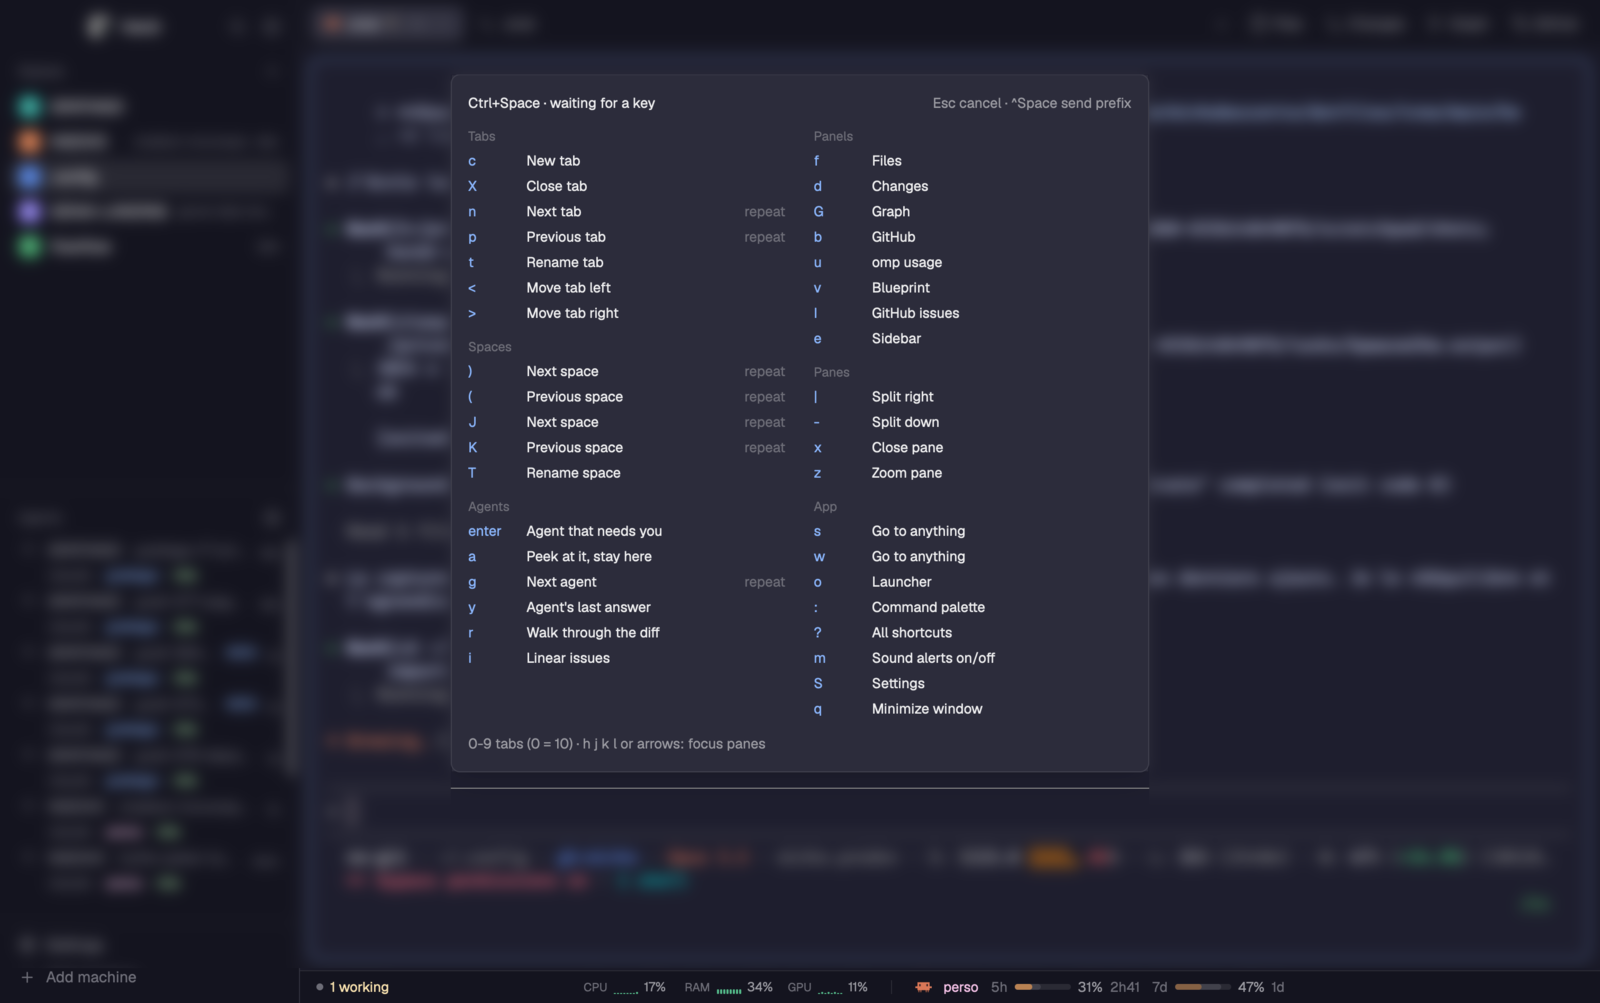
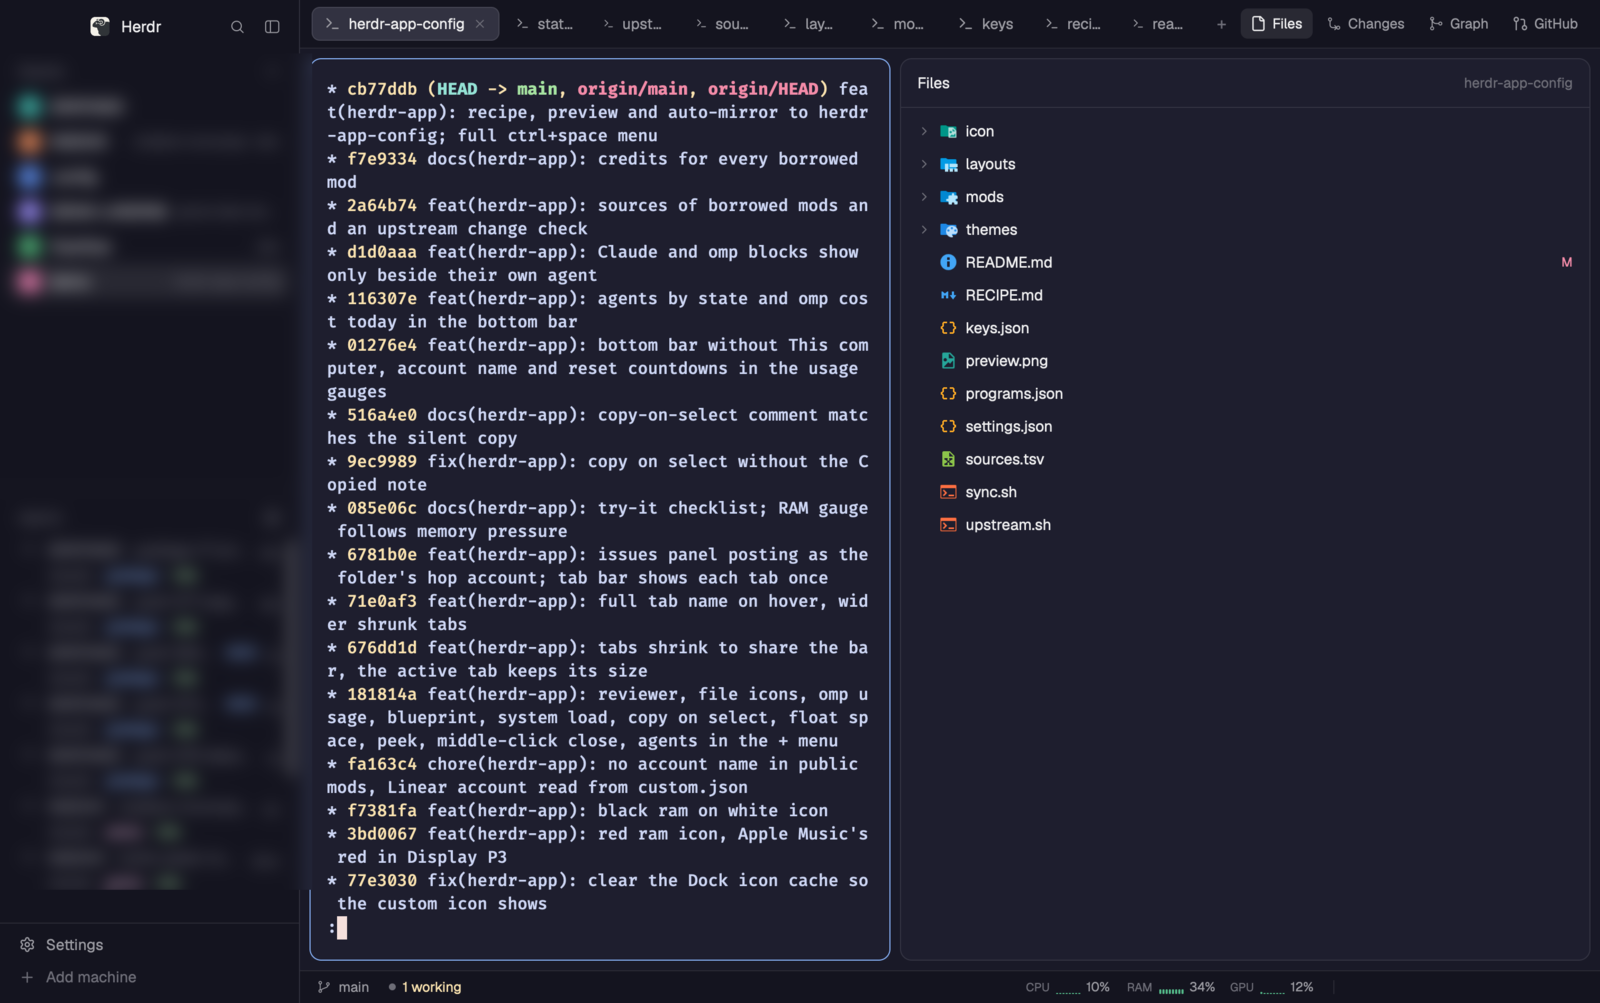
docs(herdr-app): screenshots of a demo space in the README, sharper preview

diff --git a/README.md b/README.md
@@ -4,6 +4,18 @@
 > [herdr-app-config](https://github.com/mirkobozzetto/herdr-app-config) is its mirror, updated on every push.
 > To install it, give that repo's link to your agent, as herdr.dev/layouts explains.
 
+## Screenshots
+
+![The window: many tabs that shrink, the active one in full, Files with icons](screenshots/window-files.png)
+
+| Ctrl+Space: every key at once | Cmd+/: every shortcut, searchable |
+|---|---|
+| ![Ctrl+Space menu](screenshots/ctrl-space-menu.png) | ![All shortcuts](screenshots/all-shortcuts.png) |
+| **Changes: review a diff like a pull request** | **Graph: commit lanes** |
+| ![Review panel](screenshots/window-changes.png) | ![Commit graph](screenshots/window-graph.png) |
+
+![Bottom bar: agents by state, CPU, RAM and GPU, then the Claude account with its gauges and reset countdowns](screenshots/bottom-bar.png)
+
 Config for the Herdr desktop app (0.1.10) and its terminal server, herdr-core
 (`hc`). The app reads `~/.config/herdr-app` and does not follow symlinks, so
 this folder holds copies.
